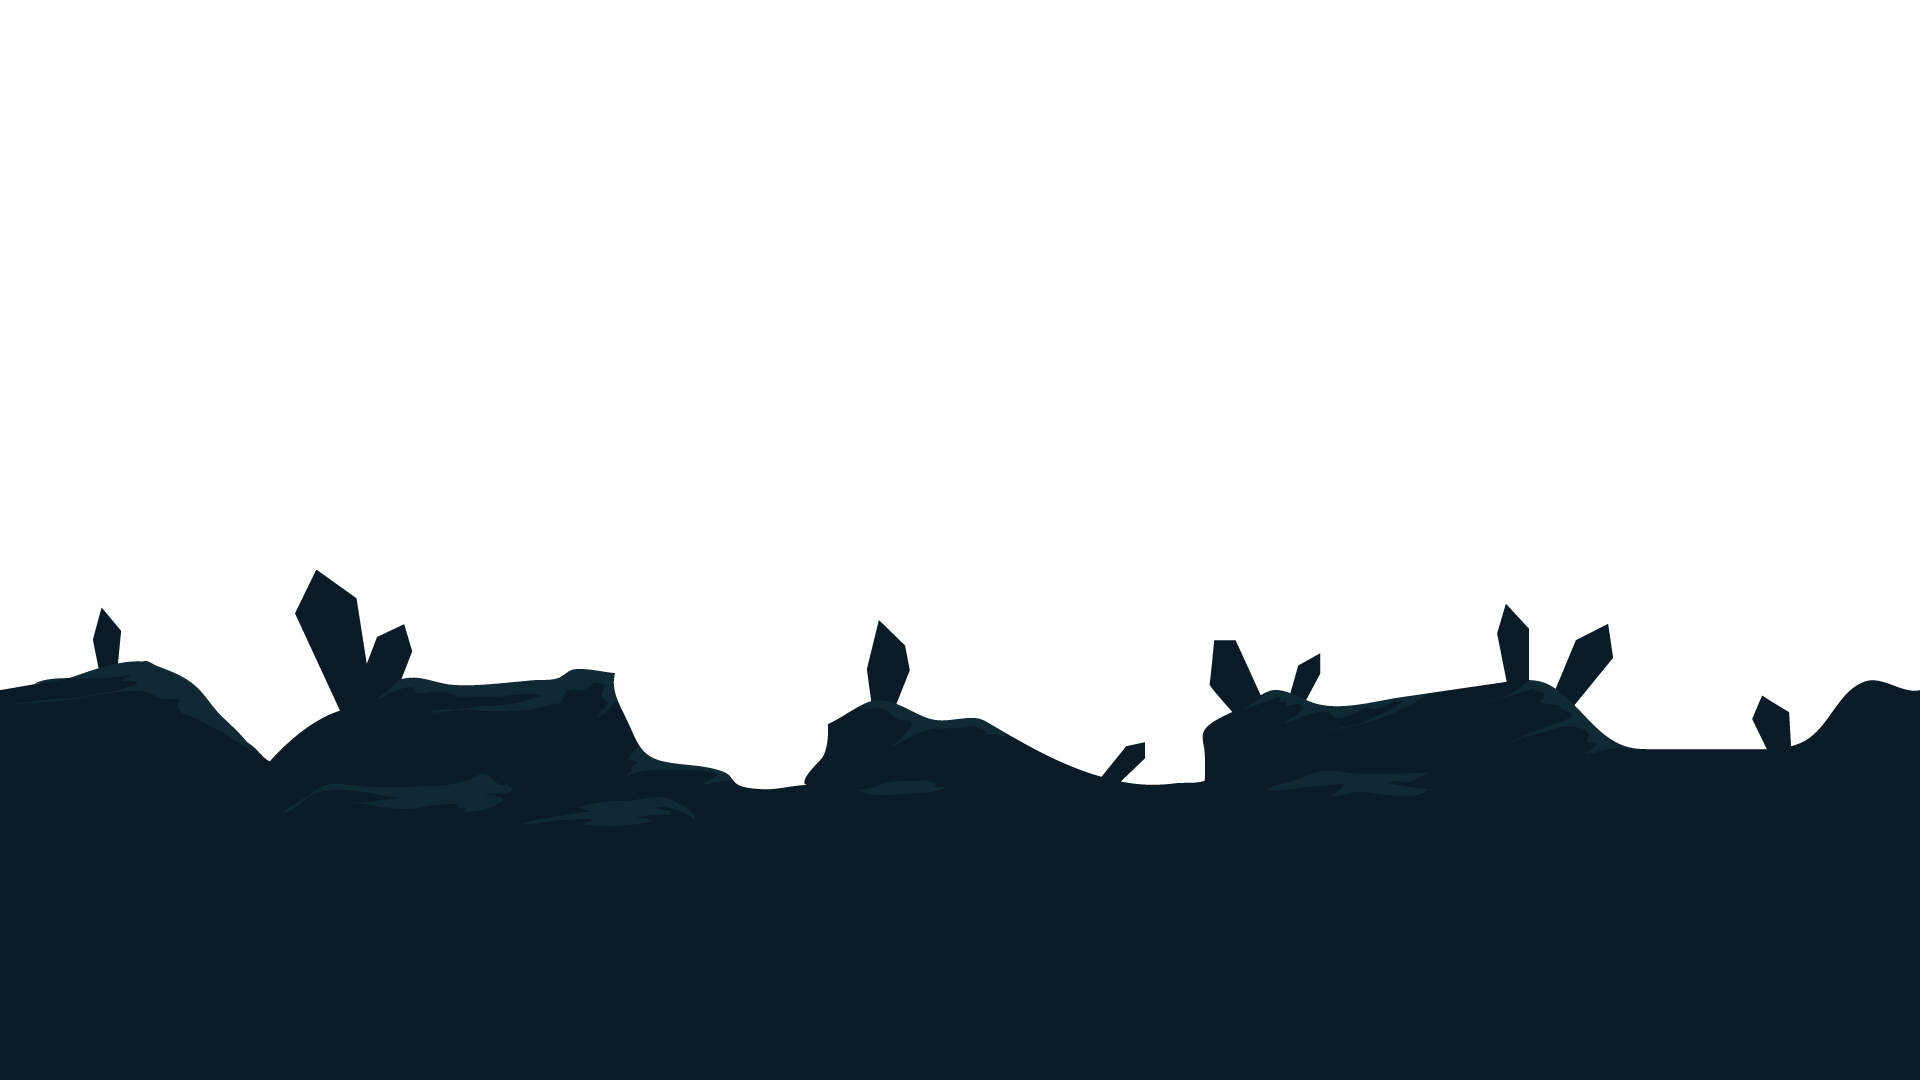
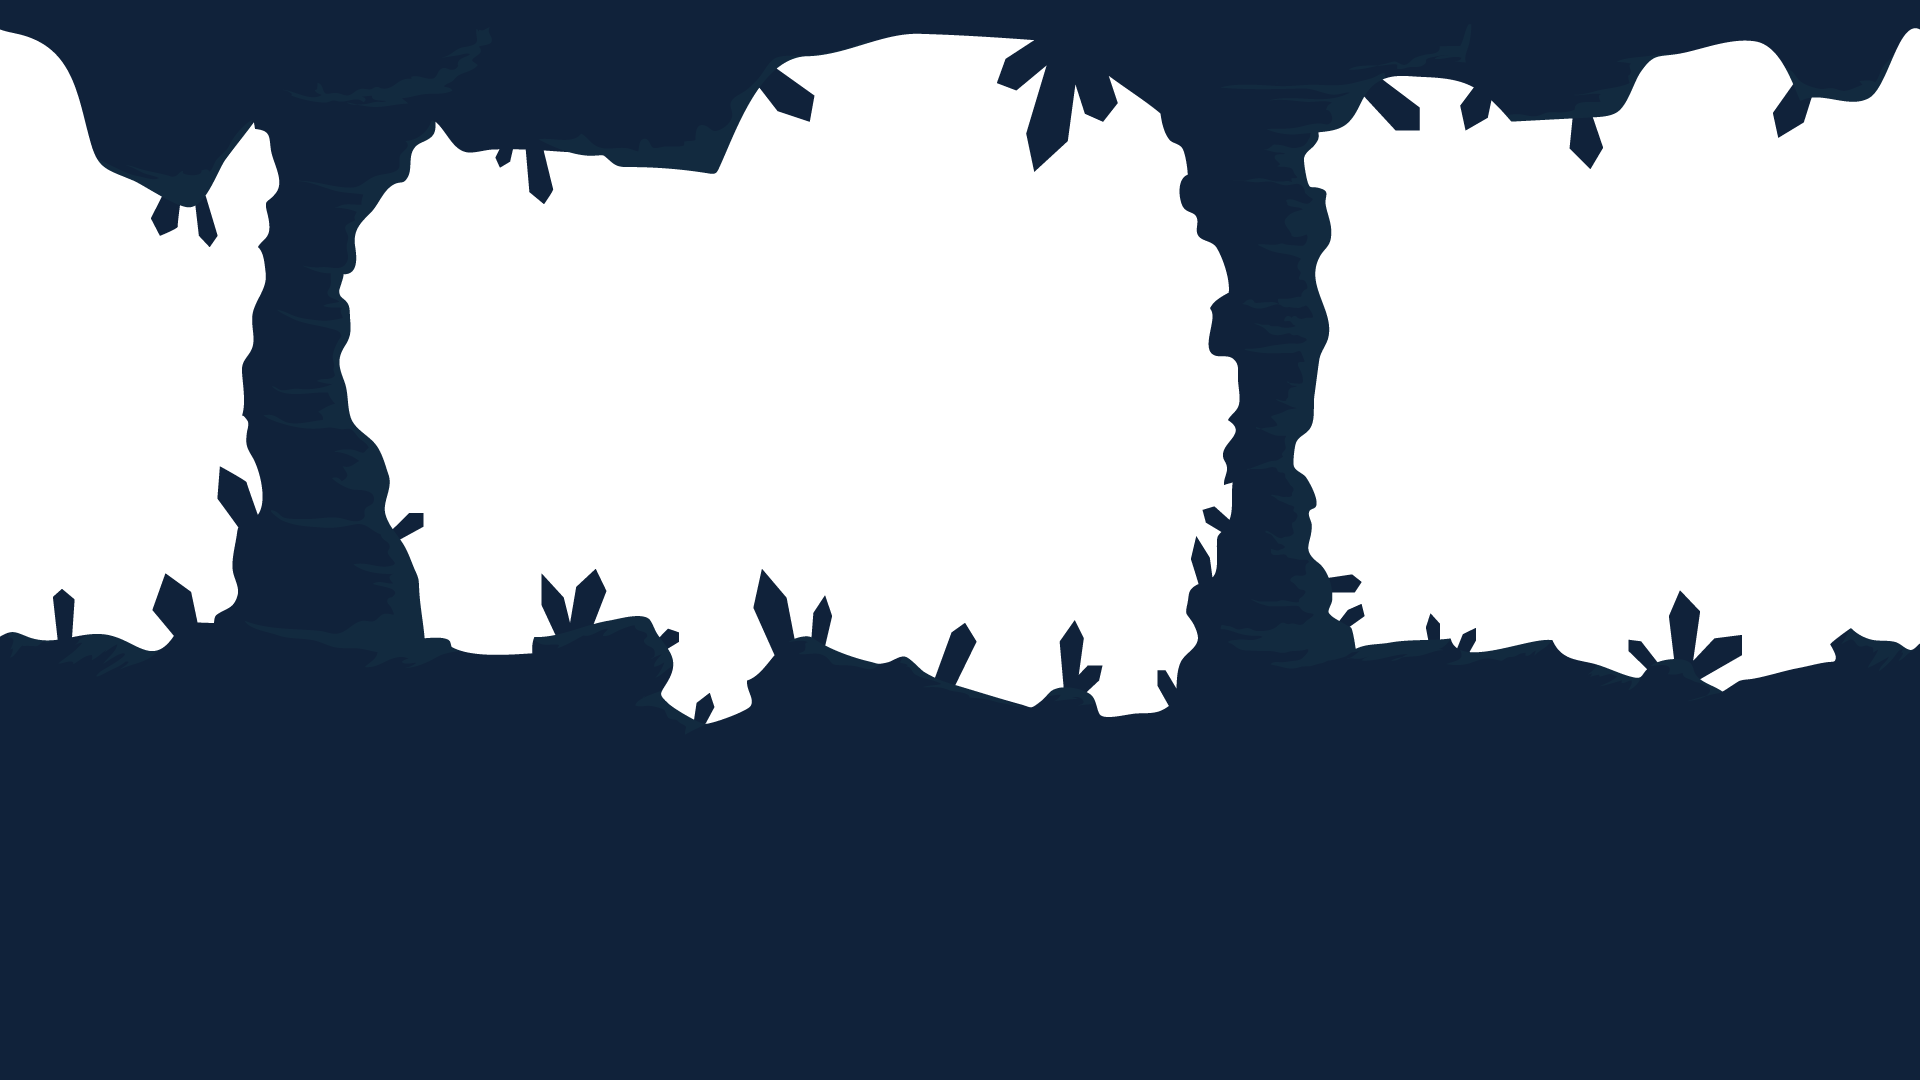
Both backgrounds working

Changed region(s): [[0.0, 0.0, 1.0, 0.7333]]

diff --git a/entities/BackgroundManager.js b/entities/BackgroundManager.js
@@ -14,10 +14,9 @@ function BackgroundManager(AM, game) {
     //Right and left flags
     var RightKeyPressed = "false";
     var LeftKeyPressed = "false";
+    var SpacePressed = "false";
 
     this.loadDesert();
-    //this.loadUnderworld();
-
 
     document.addEventListener("keydown", function (e) {
         //Running right ArrowRight
@@ -32,19 +31,10 @@ function BackgroundManager(AM, game) {
             LeftKeyPressed = "true";
 
         }
-		if (e.code === "Space"){
+		if (e.code === "Space" && SpacePressed === "false"){
             e.preventDefault();
-
-            //that.removeBackground();
-
-
-            // if (that.underworld){
-                
-            //    //that.switch(AM.getAsset(""));
-            // } else {
-            //     //that.switch(AM.getAsset(""));
-            // }
-            
+            that.removeBackground();
+            SpacePressed === "true";
         }
     }, false);
 
@@ -61,27 +51,14 @@ function BackgroundManager(AM, game) {
             LeftKeyPressed = "false";
 
         }
-		 if (e.code === "Space"){
+		 if (e.code === "Space" && SpacePressed === "true"){
             e.preventDefault();
-            if (that.underworld){
-                
-              //  that.switch(AM.getAsset("./assets/backgrounds/egypt.png"));
-            } else {
-               // that.switch(AM.getAsset("./assets/backgrounds/underworld.png"));
-            }
-
+            SpacePressed === "false"
             
         }
     }, false);
 }
 
-// BackgroundManager.prototype.getPressedRight = function(){
-//         return RightKeyPressed;
-// }
-
-// BackgroundManager.prototype.getPressedLeft = function(){
-//     return LeftKeyPressed;
-// }
 
 BackgroundManager.prototype.stopSpeed = function(){
  
@@ -110,13 +87,26 @@ BackgroundManager.prototype.defaultNegativeSpeed = function(){
 BackgroundManager.prototype.loadDesert = function(){
 
     ///Add both pngs to background
-    desertBackground[0] = new Background(this.game, AM.getAsset("./assets/backgrounds/Desert Layers/1.png"), 0);
-    desertBackground[1] = new Background(this.game, AM.getAsset("./assets/backgrounds/Desert Layers/2.png"), 0);
-    desertBackground[2] = new Background(this.game, AM.getAsset("./assets/backgrounds/Desert Layers/3.png"), 0);
-    desertBackground[3] = new Background(this.game, AM.getAsset("./assets/backgrounds/Desert Layers/4.png"), 0);
-    desertBackground[4] = new Background(this.game, AM.getAsset("./assets/backgrounds/Desert Layers/5.png"), 0);
-    desertBackground[5] = new Background(this.game, AM.getAsset("./assets/backgrounds/Desert Layers/6.png"), 0);
-    desertBackground[6] = new Background(this.game, AM.getAsset("./assets/backgrounds/Desert Layers/7.png"), 0);
+    desertBackground[0] = new Background(this.game, AM.getAsset("./assets/backgrounds/Desert Layers/1.png"), 
+                                                    AM.getAsset("./assets/backgrounds/Underworld Layers/1.png"), 0);
+   
+    desertBackground[1] = new Background(this.game, AM.getAsset("./assets/backgrounds/Desert Layers/2.png"),
+                                                    AM.getAsset("./assets/backgrounds/Underworld Layers/2.png"), 0);
+
+    desertBackground[2] = new Background(this.game, AM.getAsset("./assets/backgrounds/Desert Layers/3.png"),
+                                                    AM.getAsset("./assets/backgrounds/Underworld Layers/3.png"), 0);
+
+    desertBackground[3] = new Background(this.game, AM.getAsset("./assets/backgrounds/Desert Layers/4.png"),
+                                                    AM.getAsset("./assets/backgrounds/Underworld Layers/4.png"), 0);
+
+    desertBackground[4] = new Background(this.game, AM.getAsset("./assets/backgrounds/Desert Layers/5.png"),
+                                                    AM.getAsset("./assets/backgrounds/Underworld Layers/5.png"), 0);
+
+    desertBackground[5] = new Background(this.game, AM.getAsset("./assets/backgrounds/Desert Layers/6.png"),
+                                                    AM.getAsset("./assets/backgrounds/Underworld Layers/6.png"), 0);
+
+    desertBackground[6] = new Background(this.game, AM.getAsset("./assets/backgrounds/Desert Layers/7.png"),
+                                                    AM.getAsset("./assets/backgrounds/Underworld Layers/7.png"), 0);
 
     for(var i = 0; i < desertBackground.length; i++){
         this.game.addEntity(desertBackground[i]);
@@ -124,31 +114,34 @@ BackgroundManager.prototype.loadDesert = function(){
     }
 }
 
-BackgroundManager.prototype.loadUnderworld = function(){
+// BackgroundManager.prototype.loadUnderworld = function(){
 
 
-    underworldBackground[0] = new Background(this.game, AM.getAsset("./assets/backgrounds/Underworld Layers/1.png"), 0);
-    underworldBackground[1]  = new Background(this.game, AM.getAsset("./assets/backgrounds/Underworld Layers/1.png"), 0);
-    underworldBackground[2]  = new Background(this.game, AM.getAsset("./assets/backgrounds/Underworld Layers/2.png"), 0);
-    underworldBackground[3]  = new Background(this.game, AM.getAsset("./assets/backgrounds/Underworld Layers/3.png"), 0);
-    underworldBackground[4]  = new Background(this.game, AM.getAsset("./assets/backgrounds/Underworld Layers/4.png"), 0);
-    underworldBackground[5]  = new Background(this.game, AM.getAsset("./assets/backgrounds/Underworld Layers/5.png"), 0);
-    underworldBackground[6]  = new Background(this.game, AM.getAsset("./assets/backgrounds/Underworld Layers/6.png"), 0);
+//     underworldBackground[0] = new Background(this.game, AM.getAsset("./assets/backgrounds/Underworld Layers/1.png"), 0);
+//     underworldBackground[1]  = new Background(this.game, AM.getAsset("./assets/backgrounds/Underworld Layers/1.png"), 0);
+//     underworldBackground[2]  = new Background(this.game, AM.getAsset("./assets/backgrounds/Underworld Layers/2.png"), 0);
+//     underworldBackground[3]  = new Background(this.game, AM.getAsset("./assets/backgrounds/Underworld Layers/3.png"), 0);
+//     underworldBackground[4]  = new Background(this.game, AM.getAsset("./assets/backgrounds/Underworld Layers/4.png"), 0);
+//     underworldBackground[5]  = new Background(this.game, AM.getAsset("./assets/backgrounds/Underworld Layers/5.png"), 0);
+//     underworldBackground[6]  = new Background(this.game, AM.getAsset("./assets/backgrounds/Underworld Layers/6.png"), 0);
 
 
-    for(var i = 0; i < underworldBackground.length; i++){
-        this.game.addEntity(underworldBackground[i]);
+//     for(var i = 0; i < underworldBackground.length; i++){
+//         this.game.addEntity(underworldBackground[i]);
 
-    }
+//     }
 
-}
+// }
 
 BackgroundManager.prototype.removeBackground = function(){
-   // this.loadDesert();
+    desertBackground[0].switch();
+    desertBackground[1].switch();
+    desertBackground[2].switch();
+    desertBackground[3].switch();
+    desertBackground[4].switch();
+    desertBackground[5].switch();
+    desertBackground[6].switch();
 
-    // for(var i = 0; i < underworldBackground.length; i++){
-    //     this.game.removeEntity(underworldBackground[i]);
-
-    // }
+    console.log("hereeeeeeeeeeeeeeeeeeeeeeeeeeeeeeeeeeeeeeeeeeeeeee");
 
 }

diff --git a/entities/Background.js b/entities/Background.js
@@ -2,7 +2,7 @@ Background.prototype = new Entity();
 Background.prototype.constructor = Background;
 
 // no inheritance
-function Background(game, png, speed) {
+function Background(game, png1, png2, speed) {
     this.x1 = 0;
     this.y1 = 0;
     this.x2 = 1200;
@@ -13,7 +13,11 @@ function Background(game, png, speed) {
     this.width = 1200;
     this.height = 780;
 
-    this.png = png;
+    this.png1 = png1;
+    this.png2 = png2;
+
+    this.currentPng = png1;
+
     this.game = game;
     this.ctx = game.ctx;
     this.speed = speed;
@@ -27,12 +31,25 @@ Background.prototype.setSpeed = function(theSpeed){
 
 Background.prototype.draw = function () {
 
-    this.ctx.drawImage(this.png,
+    // if (this.underworld === true){
+    //     console.log("Switch underworld");
+
+    //     this.ctx.drawImage(this.pngUnderworld,
+    //         this.x1, this.y1, 1200, 780);
+
+    //     this.ctx.drawImage(this.pngUnderworld,
+    //             this.x2, this.y2, 1200, 780);
+
+    // } else {
+        console.log("Current png: " + this.currentPng);
+
+        this.ctx.drawImage(this.currentPng,
             this.x1, this.y1, 1200, 780);
 
-    this.ctx.drawImage(this.png,
+        this.ctx.drawImage(this.currentPng,
                 this.x2, this.y2, 1200, 780);
-        
+
+//    }        
 }
 
 Background.prototype.update = function () {
@@ -41,34 +58,33 @@ Background.prototype.update = function () {
     this.x2 += (this.speed);   
 
     if(this.game.getMainCharacter().getDirection() === 'right'){
-
-
         if (this.game.getMainCharacter().getX() + 650 >= this.x1 + this.width + this.game.getCamera().getX()){  
             this.x2 = this.x1 + this.width;
-
-        }
-        
+        }    
         if (this.game.getMainCharacter().getX() + 650 >= this.x2 + this.width + this.game.getCamera().getX()){
             this.x1 = this.x2 + this.width;
+        } 
 
-        }
-       
     } else {
-
 
         if (this.game.getMainCharacter().getX() + 650 <= this.x1 + this.width + this.game.getCamera().getX()){  
             this.x2 = this.x1 - this.width;
-
         }
         
         if (this.game.getMainCharacter().getX() + 650 <= this.x2 + this.width + this.game.getCamera().getX()){
             this.x1 = this.x2 - this.width;
-
         }      
     }
 }
 
-Background.prototype.switch = function(background){
-    // this.png = background;
-    // this.underworld = !this.underworld;
+Background.prototype.switch = function(){
+   // this.png = background;
+    this.underworld = !this.underworld;
+    if(this.underworld){
+        this.currentPng = this.png2;
+    } else {
+        this.currentPng = this.png1;
+    }
+    console.log("Underworld value: " + this.underworld);
+
 }

diff --git a/entities/Pharaoh.js b/entities/Pharaoh.js
@@ -86,6 +86,7 @@ function Pharaoh(game, assetManager, theCamera) {
     this.engine = game;
     this.AM = assetManager;  
     this.camera = theCamera;
+
     loadSpriteSheets(this.AM);
     console.log("number of loaded assets: "+assetManager.getNumberOfAssets());
     this.ctx = game.ctx;
@@ -126,13 +127,14 @@ Pharaoh.prototype.constructor = Pharaoh;
 //update is called once per frame
 Pharaoh.prototype.update = function () {
     this.x += this.game.clockTick * this.speed;
-    this.camera.setX(this.x);                      ///For camera
 
     controlAnimation(this);
     controlMovement(this);
     controlJump(this);
+    this.camera.setX(this.x);                      ///For camera
 
     Entity.prototype.update.call(this);
+
     for (var i = 0; i < this.game.entities.length; i++) {
         var ent = this.game.entities[i];
         if (ent.name === "arrow") { 
@@ -140,7 +142,8 @@ Pharaoh.prototype.update = function () {
                 console.log("collided"); 
             }
         }
-    }       
+    }  
+    
 }
 
 //draw is called after every update

diff --git a/src/assetloader.js b/src/assetloader.js
@@ -16,6 +16,8 @@ function loadAssets(){
     AM.queueDownload("./assets/backgrounds/Underworld Layers/4.png");
     AM.queueDownload("./assets/backgrounds/Underworld Layers/5.png");
     AM.queueDownload("./assets/backgrounds/Underworld Layers/6.png");
+    AM.queueDownload("./assets/backgrounds/Underworld Layers/7.png");
+
 
     //Pharo
     //AM.queueDownload("./assets/sprites/2_MUMMY/_IDLE/IDLE SpriteSheet.png"); //idle

diff --git a/entities/Camera.js b/entities/Camera.js
@@ -20,7 +20,7 @@ Camera.prototype.update = function () {
 
 }
 
-Camera.prototype.getX = function () {
+Camera.prototype.getX = function (XValue) {
 
     return this.x;
 }
@@ -28,5 +28,6 @@ Camera.prototype.getX = function () {
 Camera.prototype.setX = function (XValue) {
 
     this.x = XValue - this.width;
+    //console.log("camera x value:"+ this.x)
 
 }

diff --git a/src/gameengine.js b/src/gameengine.js
@@ -43,6 +43,7 @@ GameEngine.prototype.addEntityCamera = function (entity) {
 
     this.camera = entity;
     this.entities.push(entity);
+
 }
 
 GameEngine.prototype.addEntityMainCharacter = function (entity) {

diff --git a/src/levelcontroller.js b/src/levelcontroller.js
@@ -28,5 +28,6 @@ levelcontroller.prototype.level1 = function(){
 
 
 
+
     
 }
